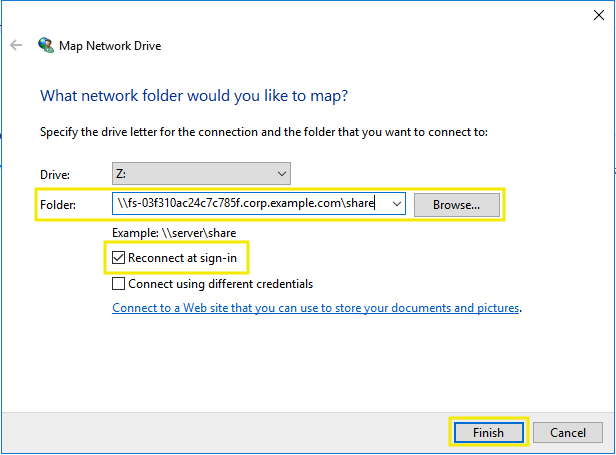
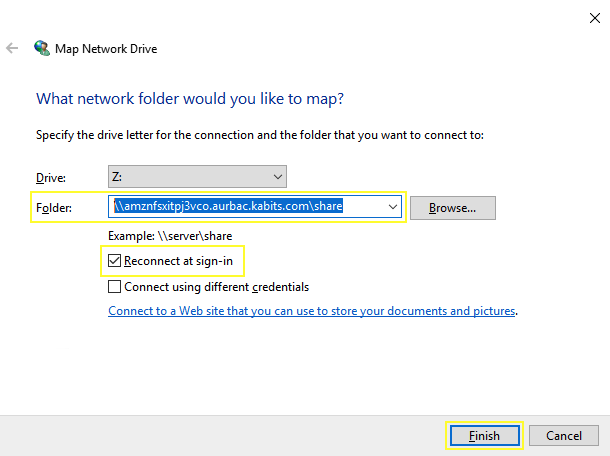
DNS Name

diff --git a/lib/cdk-directoryservice-and-fsx-stack.ts b/lib/cdk-directoryservice-and-fsx-stack.ts
@@ -142,7 +142,5 @@ export class CdkDirectoryserviceAndFsxStack extends cdk.Stack {
       }
     });
     
-    new cdk.CfnOutput(this, 'fsxFolder', { value: '\\\\'+ file.ref +'.'+props.directoryServiceName+'\\share' });
-    
   }
 }

diff --git a/README.md b/README.md
@@ -92,7 +92,13 @@ In the **File Explorer**, open the context (right-click) menu for **Network** an
 
 Choose a drive letter of your choice for Drive, by default is **Z**.
 
-Enter the fully qualified domain name (FQDN) name for your file share. You construct this name from the FQDN of your file system and the name of your Windows file share. For **Folder** type `\\<FileSystemId>.corp.example.com\share` where `<FileSystemId>` is replaced with the Value copied earlier. (Copy from cloudformation output)
+Enter the fully qualified domain name (FQDN) name for your file share. You can retrieve the DNSName using the AWS CLI with the following command.
+
+``` bash
+aws fsx describe-file-systems --query 'FileSystems[*].{DNSName:DNSName, StorageCapacity:StorageCapacity, ThroughputCapacity:WindowsConfiguration.ThroughputCapacity,RemoteAdministrationEndpoint:WindowsConfiguration.RemoteAdministrationEndpoint}'
+```
+
+For **Folder** type `\\<DNSName>\share` where `<DNSName>` is replaced with the Value from last command output.
 
 Choose whether the file share should **Reconnect at sign-in** and then choose **Finish**.
 

diff --git a/ee-cfn/README.md b/ee-cfn/README.md
@@ -2,6 +2,8 @@
 
 About 50 min to be created.
 
+## IAM configurations
+
 **IAM Managed Policy ARNs**
 
 ``` bash
